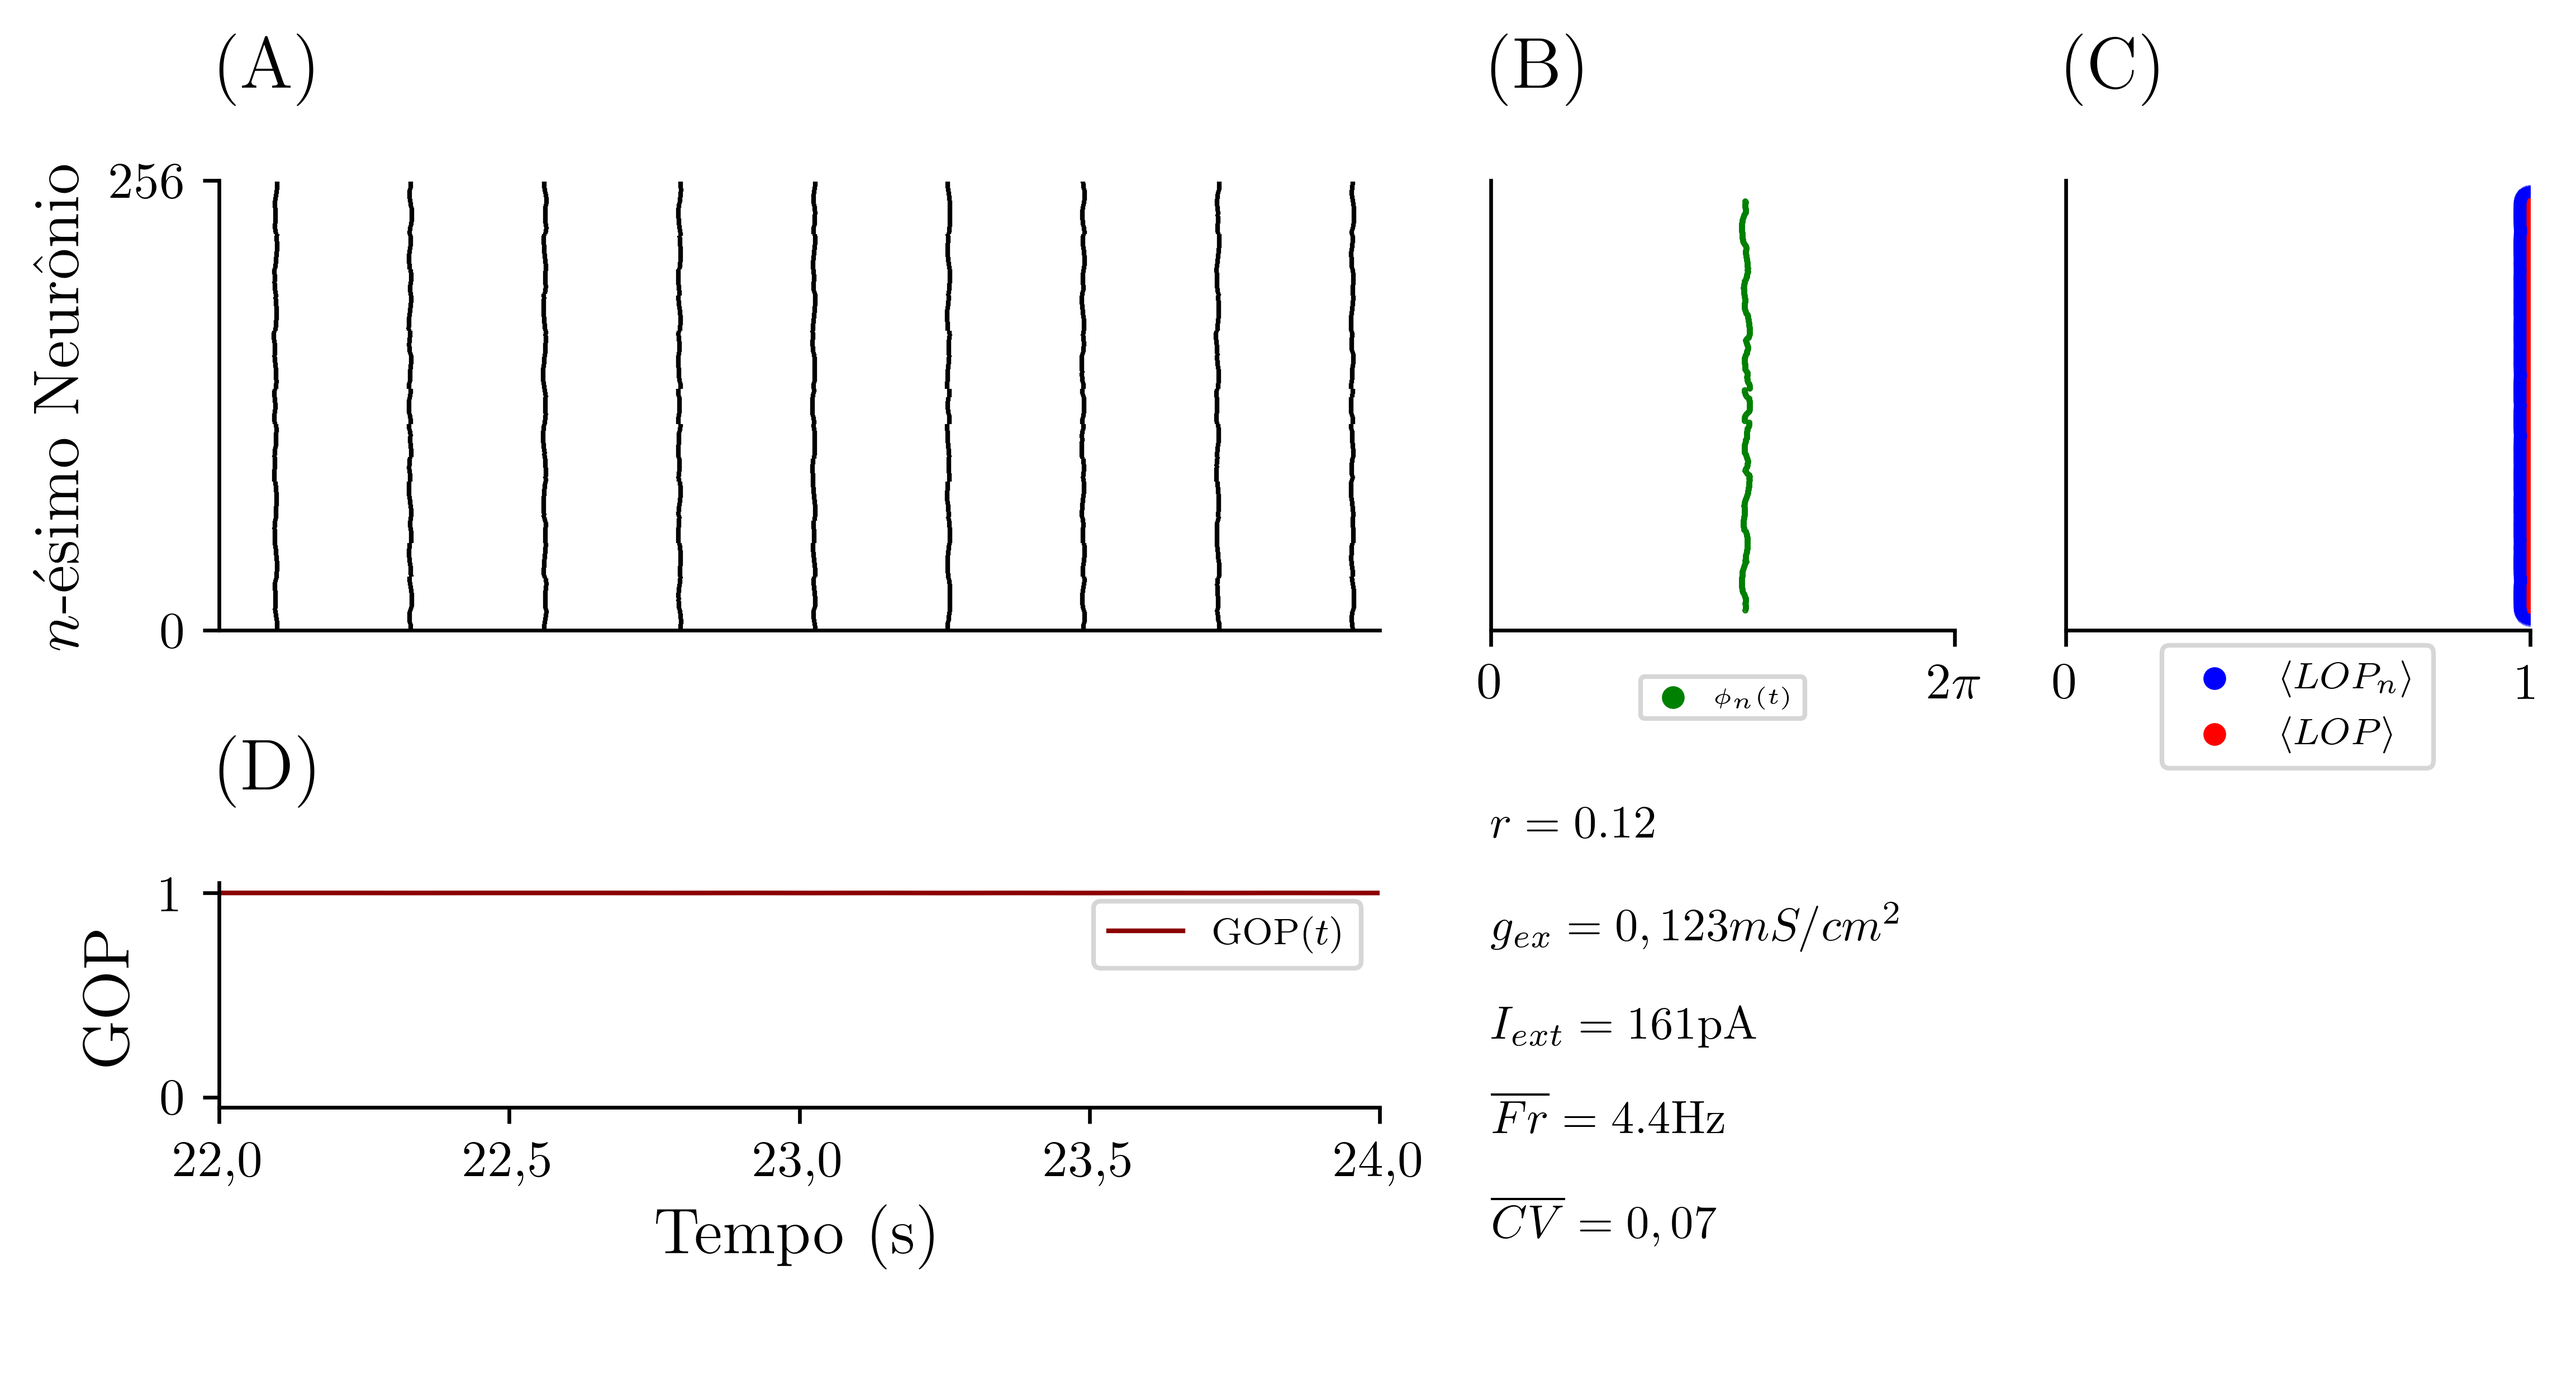
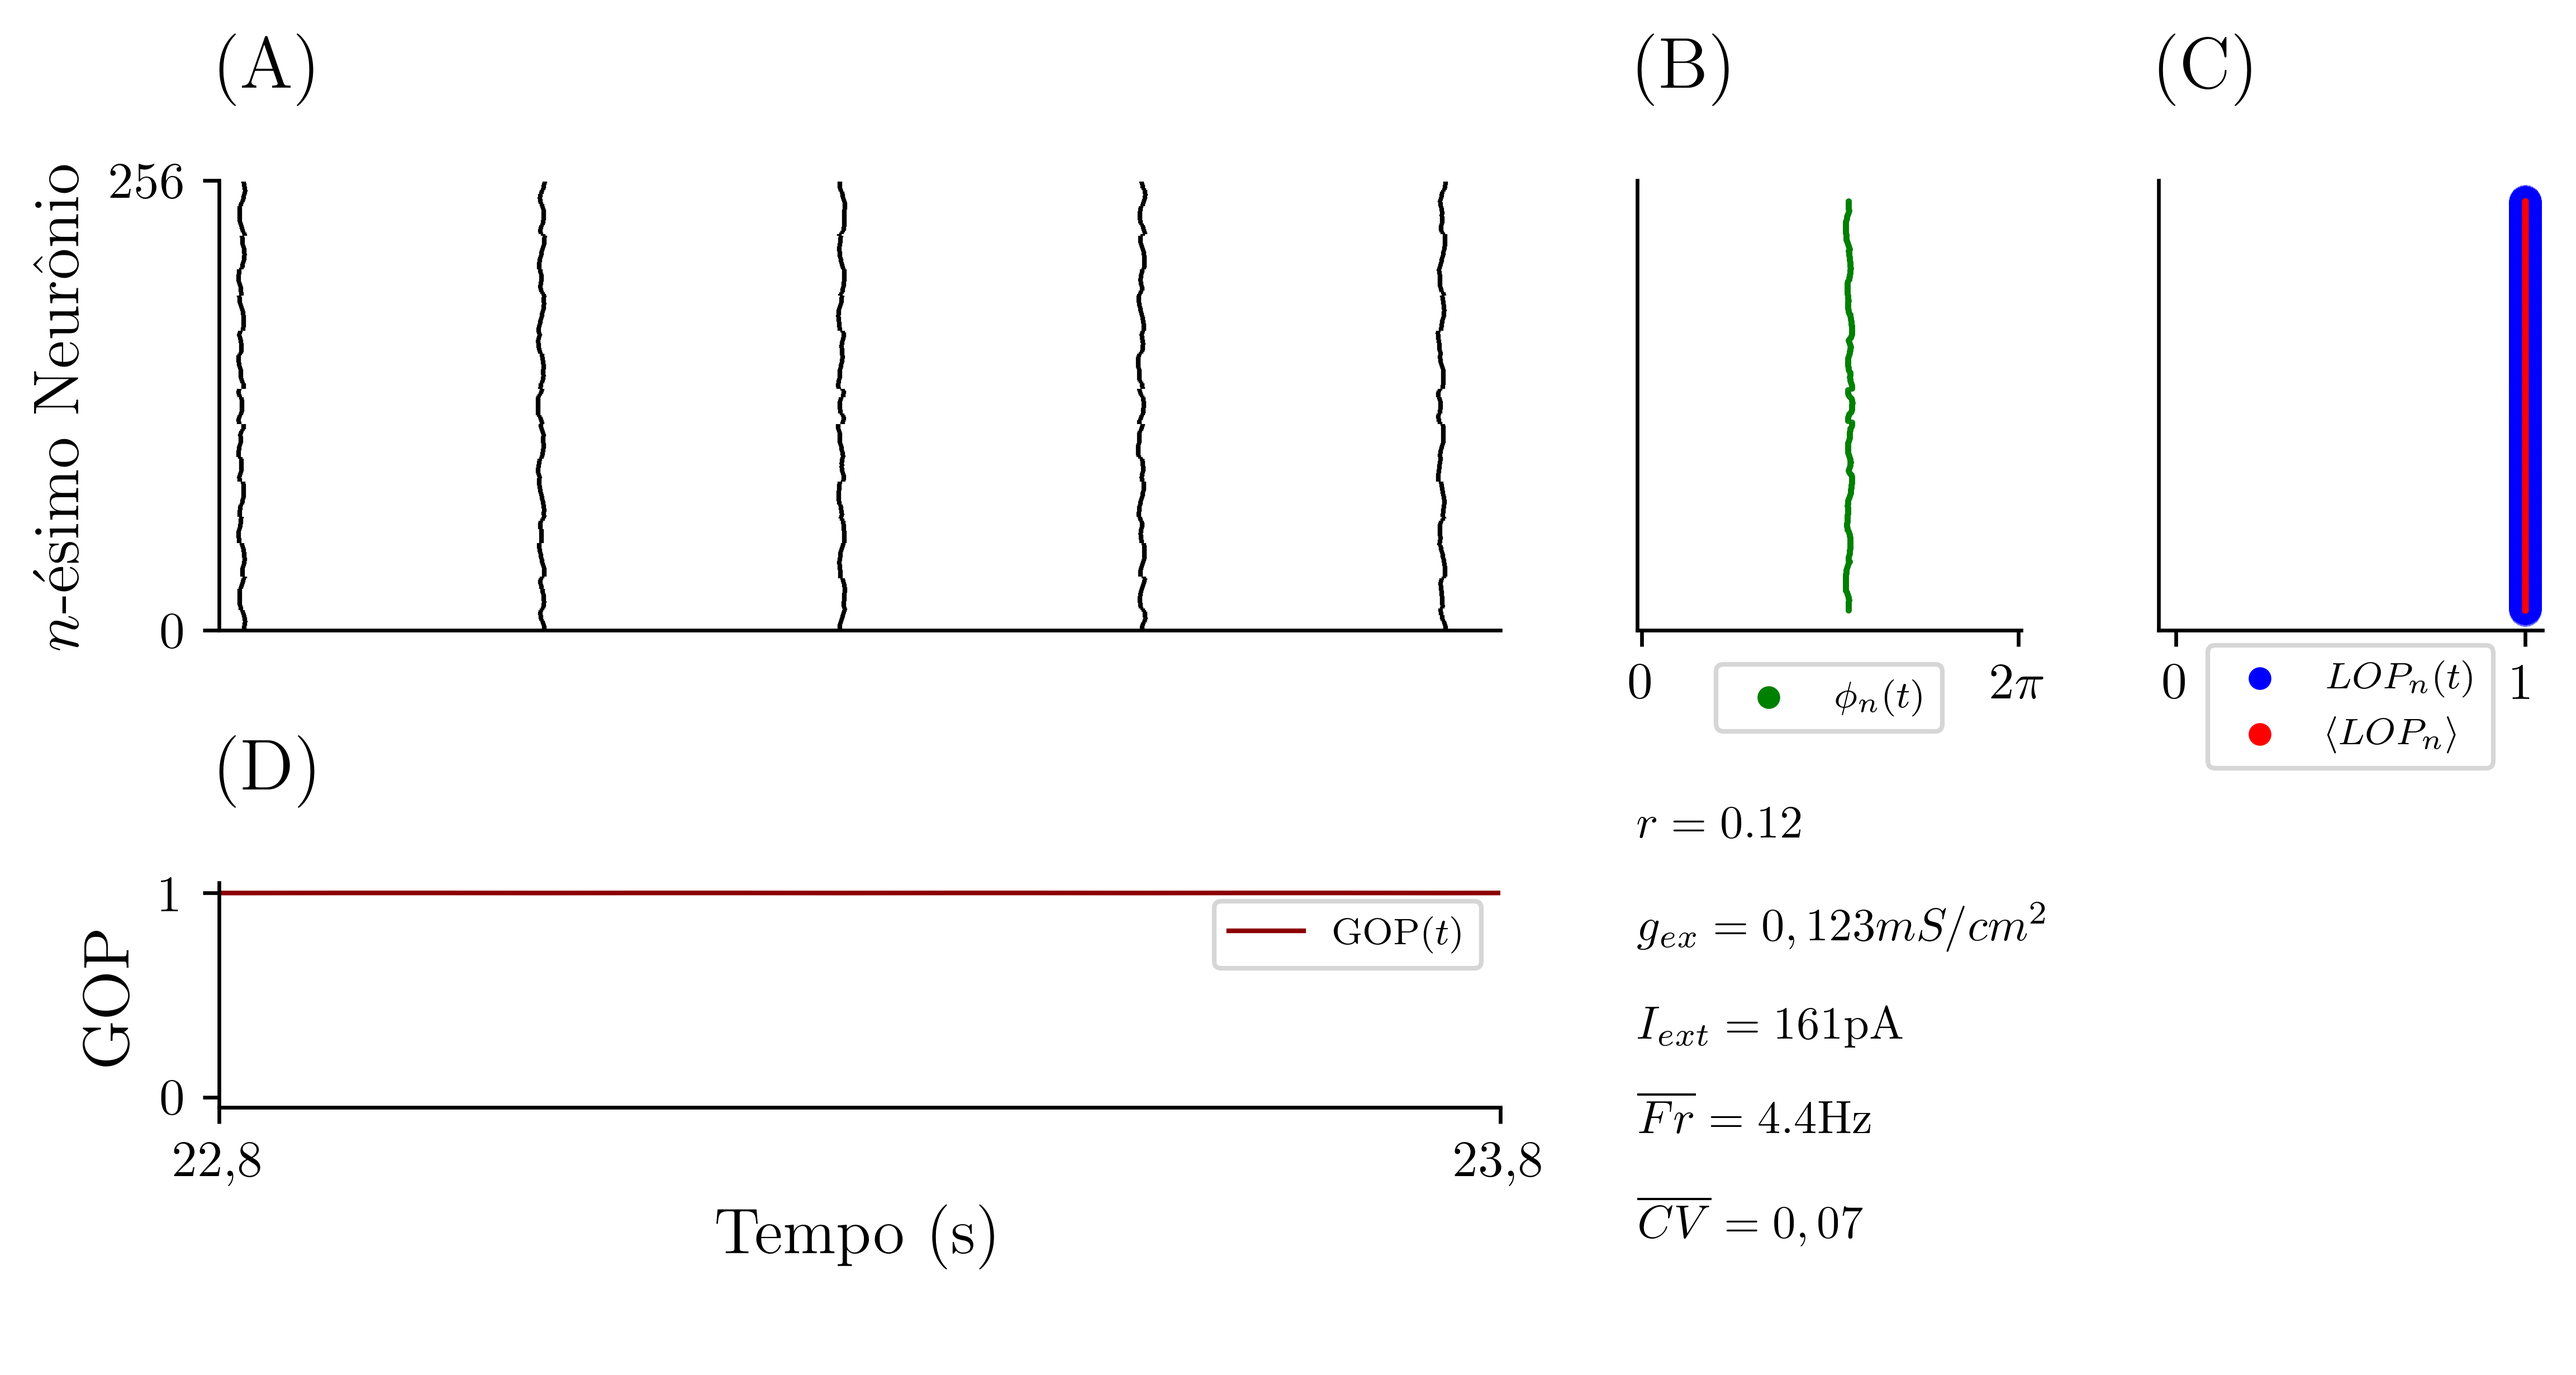
figures

diff --git a/codes_and_figures/plotAll.py b/codes_and_figures/plotAll.py
@@ -25,6 +25,138 @@ def plot_params():
     plt.rcParams['pcolor.shading'] = 'nearest'
 plot_params()
 
+def plotAll(path):
+    file = path.split('/')[-1].split('.')[0]
+
+    # file = f'space_param_v{v}_batch1'
+    resol = 32
+    with open(path, 'rb') as f:
+        data = pickle.load(f)
+
+    # file = f'../data/v{v}_batch{batch}/v{v}_batch{batch}_0_{subbatch}'
+    # file = f'../data/v0_batch0/v0_batch0'
+    print('~~ Plot Raster, LOP, Phase and GOP.')
+    print(f'Reading: "{file}"')
+
+    cellNumber = data['simConfig']['cellNumber']
+    gex = data['simConfig']['gex']*1e3
+    amp = data['simConfig']['IClamp0']['amp'] * 1000
+    neighbours = data['simConfig']['n_neighbors']
+    freq_mean = data['freq_bar'].mean()
+    cv = data['cv'].mean()
+    t_peaks = data['t_peaks']
+    phases = data['phases']
+    t_phase = data['t_phase']
+
+    gop = data['GOP']
+    lop = data['LOP_delta'][5]
+
+    ti = -210
+    tf = -110
+
+    gop_sample = gop[ti:tf]
+    lop_sample = lop[:,ti:tf]
+
+    mean_lop = lop_sample.mean(axis=1)
+    last_lop = lop_sample[:, -10]
+
+    last_phases = phases[:, -10]
+    t_sample = t_phase[ti:tf]
+
+    print(gop.shape, lop.shape, mean_lop.shape, last_lop.shape)
+
+
+    print(f'Plotting...')
+    cm = 1/2.54
+
+    fig, ax = plt.subplots(2,3, figsize=(20*cm,12*cm), gridspec_kw={'width_ratios':[5,1.5,1.5], 'height_ratios': [4,2] })
+    np.random.seed(2788590720)
+    indices_sorteados = np.random.choice(lop_sample.shape[1], 150)
+    n = np.arange(lop_sample.shape[0])
+    fig.set_tight_layout(15)
+    ax[0][0].set_title('(A)', loc='left', pad=20)
+    ax[0][0].spines['right'].set_visible(False)
+    ax[0][0].spines['top'].set_visible(False)
+    ax[0][0].set_ylabel('$n$-ésimo Neurônio')
+    ax[0][0].set_ylim(0, len(t_peaks))
+    ax[0][0].set_yticks([0,256])
+    ax[0][0].eventplot(t_peaks, color='black')
+    ax[0][0].xaxis.set_visible(False)
+
+    ax[0][1].set_title('(B)', loc='left', pad=20)
+    ax[0][1].scatter(x = last_phases, y=n, color='green', s = 0.1, label=r'$\phi_n(t)$')
+    ax[0][1].set_xticks([0,2*np.pi])
+    ax[0][1].set_xticklabels(['0','$2\pi$'])
+    ax[0][1].set_xlim(-0.08, 2*np.pi+0.05)
+    # ax[0][1].set_xlabel('$\phi$(t)', fontsize=11)
+    ax[0][1].spines['right'].set_visible(False)
+    ax[0][1].spines['top'].set_visible(False)
+    ax[0][1].yaxis.set_visible(False)
+    l01 = ax[0][1].legend(loc='center',fontsize="8", 
+                    bbox_to_anchor=(0.5, -0.15))
+    l01.legendHandles[0]._sizes=[15]
+
+    ax[0][2].set_title('(C)',loc='left', pad=20)
+    for lop in lop_sample[:, indices_sorteados].T:
+        ax[0][2].scatter(x = lop, y = n, color='blue', alpha=0.005)
+    ax[0][2].scatter(x = last_lop, y = n, s = 0.1, color='blue', label=r'$LOP_{n}(t)$')
+    ax[0][2].scatter(x = mean_lop, y = n, s = 0.2, color='red', alpha=1, label=r'$\langle LOP_{n} \rangle$')
+    ax[0][2].set_xticks([0,1.])
+    ax[0][2].set_xlim(-0.05,1.05)
+    ax[0][2].spines['right'].set_visible(False)
+    ax[0][2].spines['top'].set_visible(False)
+    ax[0][2].yaxis.set_visible(False)
+    l02 = ax[0][2].legend(loc='center',fontsize="8", 
+                    bbox_to_anchor=(0.5, -0.17))
+    l02.legendHandles[0]._sizes=[15]
+    l02.legendHandles[1]._sizes=[15]
+
+
+    ax[1][0].set_title('(D)', loc='left', pad=20)
+    ax[1][0].plot(t_sample, gop_sample, color='darkred', label='GOP$(t)$')
+    ax[1][0].spines['right'].set_visible(False)
+    ax[1][0].spines['top'].set_visible(False)
+    ax[1][0].set_ylim(-0.05, 1.05)
+    ax[1][0].set_ylabel('GOP')
+    ax[1][0].set_xlabel('Tempo (s)')
+    ax[1][0].legend(loc='upper right')
+
+
+    raio = '$r = '+f'{neighbours/cellNumber:.2f}'+'$\n\n'
+    g = '$g_{ex}='+f'{gex:.3f} mS/cm^2'.replace('.',',')+'$\n\n'
+    i = '$I_{ext}='+f'{int(amp)}'+'$pA\n\n'
+    fr = '$\overline{Fr} = '+f'{freq_mean:.1f}$'+'Hz\n\n'
+    cv_mean = '$\overline{CV}='+f'{cv:.2f}'.replace('.',',')+'$\n\n' 
+
+    infos = raio+g+i+fr+cv_mean
+    ax[1][1].annotate(infos, xy = (0,0), xytext=(0,-1), fontsize=10)
+    ax[1][1].yaxis.set_visible(False)
+    ax[1][1].xaxis.set_visible(False)
+    ax[1][1].spines['right'].set_visible(False)
+    ax[1][1].spines['left'].set_visible(False)
+    ax[1][1].spines['top'].set_visible(False)
+    ax[1][1].spines['bottom'].set_visible(False)
+
+    ax[1][2].yaxis.set_visible(False)
+    ax[1][2].xaxis.set_visible(False)
+    ax[1][2].spines['right'].set_visible(False)
+    ax[1][2].spines['top'].set_visible(False)
+    ax[1][2].spines['left'].set_visible(False)
+    ax[1][2].spines['bottom'].set_visible(False)
+
+    for axis in ax[:,0]:
+        ti_label = t_sample[0]
+        tf_label = t_sample[-1]
+        axis.set_xlim(ti_label, tf_label)
+        axis.set_xticks([ti_label, tf_label])
+        axis.set_xticklabels([f'{lab/1e3:.1f}'.replace('.',',') for lab in [ti_label, tf_label]])
+
+    print('->'+f'{file}')
+    # plt.savefig(folder+f'AnalysisV{v}_n{len(n)}_{gex}Scm2_{amp:.1f}pA_r{neighbours/cellNumber:.2f}neigh_{int(freq_mean)}Hz.png', dpi=600, bbox_inches='tight', format='png')
+    plt.savefig(f'{file}.png', dpi=600, bbox_inches='tight', format='png')
+
+    print('\n~~')
+
 
 # v = str(sys.argv[1])
 # i = str(sys.argv[2])
@@ -33,128 +165,28 @@ plot_params()
 # file = f'../figuresV2/v{v}_batch1_{i}_{j}'
 
 # path = str(input('Path of file: '))
-path = '../results/v2_batch1/v2_batch1_2_7_data_regiao_I_RS.pkl'
 
-file = path.split('/')[-1].split('.')[0]
+folder = '../results/v2_batch1/'
 
-# file = f'space_param_v{v}_batch1'
-resol = 32
-with open(path, 'rb') as f:
-    data = pickle.load(f)
+caminhos = [
+    'v2_batch1_25_6_data_regiao_V_BursteChimera.pkl',
+    'v2_batch1_9_28_data_regiao_III_RSeChimera.pkl',
+    'v2_batch1_23_26_data_regiao_IV_RSeBustsHighFr.pkl',
+    'v2_batch1_2_7_data_regiao_I_RS.pkl','v2_batch1_9_29_data_regiao_III_RSeChimera.pkl',
+    'v2_batch1_24_1_data_regiao_V_Burst.pkl','v2_batch1_3_28_data_regiao_II_RSeBust.pkl','v2_batch1_25_5_data_regiao_V_BursteChimera.pkl',
+    'v2_batch1_9_27_data_regiao_III_RSeChimera.pkl'
+]
 
-# file = f'../data/v{v}_batch{batch}/v{v}_batch{batch}_0_{subbatch}'
-# file = f'../data/v0_batch0/v0_batch0'
-print('~~ Plot Raster, LOP, Phase and GOP.')
-print(f'Reading: "{file}"')
+for p in caminhos:
+    plotAll(folder+p)
 
-cellNumber = data['simConfig']['cellNumber']
-gex = data['simConfig']['gex']*1e3
-amp = data['simConfig']['IClamp0']['amp'] * 1000
-neighbours = data['simConfig']['n_neighbors']
-freq_mean = data['freq_bar'].mean()
-cv = data['cv'].mean()
-t_peaks = data['t_peaks']
-t_phase = data['t_phase']
-
-gop = data['GOP']
-lop = data['LOP_delta'][5]
-
-gop_sample = gop[:]
-lop_sample = lop[:, :]
-
-mean_lop = lop_sample.mean(axis=1)
-last_lop = lop_sample[:, -10]
-
-last_phases = data['phases'][:, -10]
-t_sample = t_phase[:] 
-
-print(gop.shape, lop.shape, mean_lop.shape, last_lop.shape)
+folder = '../results/v3_batch1/'
+caminhos = [
+    'v3_batch1_11_13_data_regiao_III_burst.pkl','v3_batch1_2_7_data_regiao_I.pkl',
+    'v3_batch1_11_10_data_regiao_III_chimera.pkl','v3_batch1_11_9_data_regiao_III_RSeBust.pkl',
+    'v3_batch1_11_12_data_regiao_III_RS.pkl','v3_batch1_17_15_data_regiao_IV_burst.pkl'
+]
 
 
-print(f'Plotting...')
-cm = 1/2.54
-
-fig, ax = plt.subplots(2,3, figsize=(20*cm,12*cm), gridspec_kw={'width_ratios':[5,2,2], 'height_ratios': [4,2] })
-np.random.seed(2788590720)
-indices_sorteados = np.random.choice(lop_sample.shape[1], 150)
-n = np.arange(lop_sample.shape[0])
-fig.set_tight_layout(15)
-ax[0][0].set_title('(A)', loc='left', pad=20)
-ax[0][0].spines['right'].set_visible(False)
-ax[0][0].spines['top'].set_visible(False)
-ax[0][0].set_ylabel('$n$-ésimo Neurônio')
-ax[0][0].set_ylim(0, len(t_peaks))
-ax[0][0].set_yticks([0,256])
-ax[0][0].eventplot(t_peaks, color='black')
-ax[0][0].xaxis.set_visible(False)
-
-ax[0][1].set_title('(B)', loc='left', pad=20)
-ax[0][1].scatter(x = last_phases, y=n, color='green', s = 0.1, label=r'$\phi_n(t)$')
-ax[0][1].set_xticks([0,2*np.pi])
-ax[0][1].set_xticklabels(['0','$2\pi$'])
-# ax[0][1].set_xlabel('$\phi$(t)', fontsize=11)
-ax[0][1].spines['right'].set_visible(False)
-ax[0][1].spines['top'].set_visible(False)
-ax[0][1].yaxis.set_visible(False)
-l01 = ax[0][1].legend(loc='center',fontsize="5", 
-                bbox_to_anchor=(0.5, -0.15))
-l01.legendHandles[0]._sizes=[15]
-
-ax[0][2].set_title('(C)',loc='left', pad=20)
-for lop in lop_sample[:, indices_sorteados].T:
-    ax[0][2].scatter(x = lop, y = n, color='blue', alpha=0.005)
-ax[0][2].scatter(x = last_lop, y = n, s = 0.1, color='blue', label=r'$\langle LOP_{n} \rangle$')
-ax[0][2].scatter(x = mean_lop, y = n, s = 0.2, color='red', alpha=1, label=r'$\langle LOP \rangle$')
-ax[0][2].set_xticks([0,1.])
-ax[0][2].set_xlim(0,1)
-ax[0][2].spines['right'].set_visible(False)
-ax[0][2].spines['top'].set_visible(False)
-ax[0][2].yaxis.set_visible(False)
-l02 = ax[0][2].legend(loc='center',fontsize="8", 
-                bbox_to_anchor=(0.5, -0.17))
-l02.legendHandles[0]._sizes=[15]
-l02.legendHandles[1]._sizes=[15]
-
-
-ax[1][0].set_title('(D)', loc='left', pad=20)
-ax[1][0].plot(t_phase, gop_sample, color='darkred', label='GOP$(t)$')
-ax[1][0].spines['right'].set_visible(False)
-ax[1][0].spines['top'].set_visible(False)
-ax[1][0].set_ylim(-0.05, 1.05)
-ax[1][0].set_ylabel('GOP')
-ax[1][0].set_xlabel('Tempo (s)')
-ax[1][0].legend(loc='upper right')
-
-
-raio = '$r = '+f'{neighbours/cellNumber:.2f}'+'$\n\n'
-g = '$g_{ex}='+f'{gex:.3f} mS/cm^2'.replace('.',',')+'$\n\n'
-i = '$I_{ext}='+f'{int(amp)}'+'$pA\n\n'
-fr = '$\overline{Fr} = '+f'{freq_mean:.1f}$'+'Hz\n\n'
-cv_mean = '$\overline{CV}='+f'{cv:.2f}'.replace('.',',')+'$\n\n' 
-
-infos = raio+g+i+fr+cv_mean
-ax[1][1].annotate(infos, xy = (0,0), xytext=(0,-1), fontsize=10)
-ax[1][1].yaxis.set_visible(False)
-ax[1][1].xaxis.set_visible(False)
-ax[1][1].spines['right'].set_visible(False)
-ax[1][1].spines['left'].set_visible(False)
-ax[1][1].spines['top'].set_visible(False)
-ax[1][1].spines['bottom'].set_visible(False)
-
-ax[1][2].yaxis.set_visible(False)
-ax[1][2].xaxis.set_visible(False)
-ax[1][2].spines['right'].set_visible(False)
-ax[1][2].spines['top'].set_visible(False)
-ax[1][2].spines['left'].set_visible(False)
-ax[1][2].spines['bottom'].set_visible(False)
-
-for axis in ax[:,0]:
-
-    axis.set_xlim(2.2e4, 2.4e4)
-    axis.set_xticklabels([str(x).replace('.',',') for x in axis.get_xticks()/1e3])
-
-print('->'+f'{file}')
-# plt.savefig(folder+f'AnalysisV{v}_n{len(n)}_{gex}Scm2_{amp:.1f}pA_r{neighbours/cellNumber:.2f}neigh_{int(freq_mean)}Hz.png', dpi=600, bbox_inches='tight', format='png')
-plt.savefig(f'{file}.png', dpi=600, bbox_inches='tight', format='png')
-
-print('\n~~')
+for p in caminhos:
+    plotAll(folder+p)
